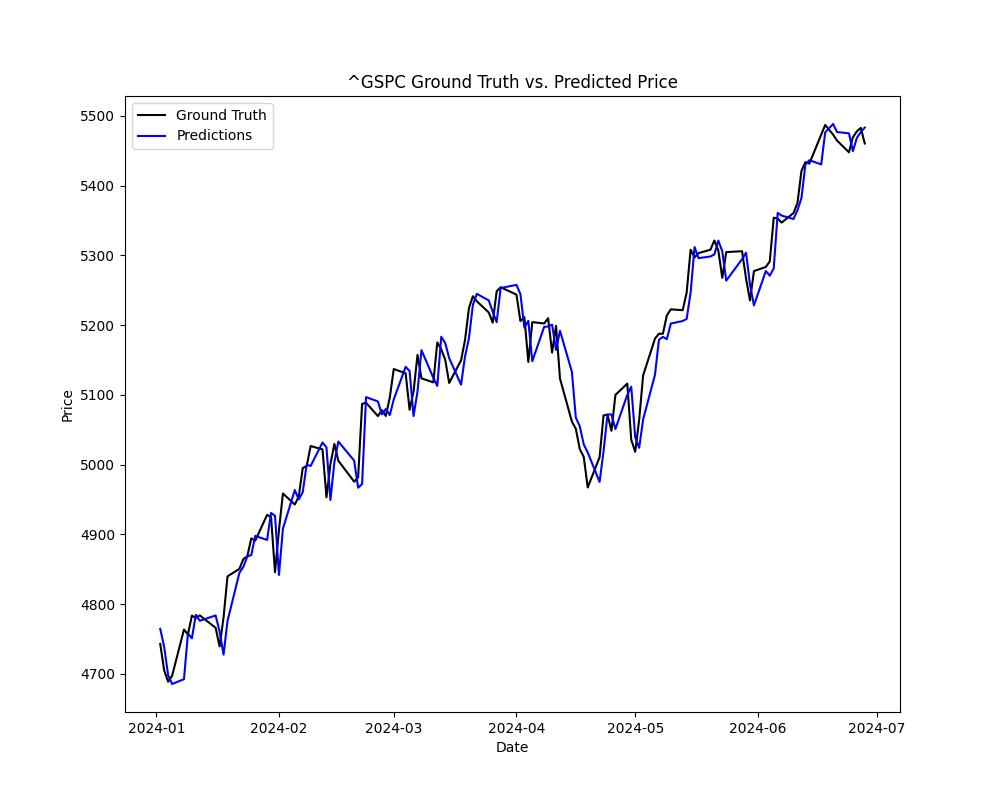
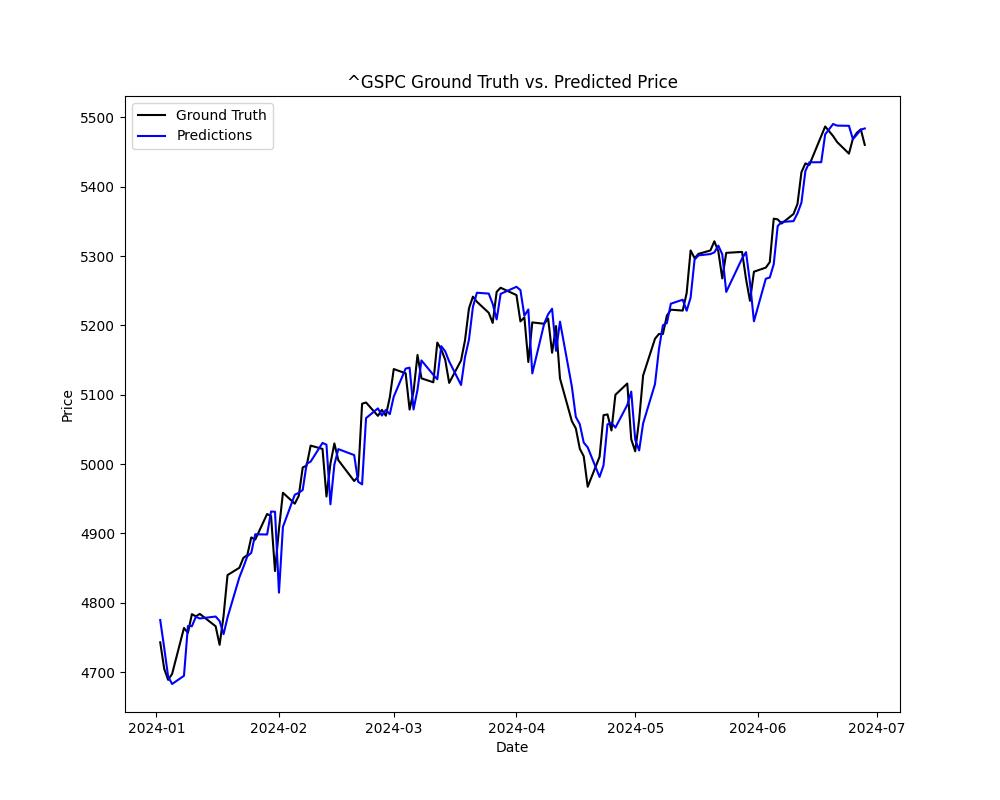
try price change, with similar results as before

diff --git a/evaluation.py b/evaluation.py
@@ -10,7 +10,7 @@ import matplotlib.pyplot as plt
 import argparse
 
 
-def reg_model_eval(model_path: str, model_arch: str, ticker: str, time_interval: str, 
+def reg_model_eval(model_path: str, model_arch: str, ticker: str, time_interval: str,
                    label: str, error: str, start_date: date, end_date: date = None):
     """
     Evaluate a regression model's predictions for the given ticker's price over some time period.
@@ -22,7 +22,7 @@ def reg_model_eval(model_path: str, model_arch: str, ticker: str, time_interval:
         time_interval (str): String with the time interval of the model. 
             Should be "1m" or "1d".
         label (str): String with the label used for the model. 
-            Should be "price".
+            Should be "price" or "price-change".
         error (str): String with the error (loss) function used by the model.
         start_date (datetime.date): Date for the first date of the time window for the evaluation.
             If time_interval is "1m", then this defines the day to get the 1-minute chart for.
@@ -53,15 +53,20 @@ def reg_model_eval(model_path: str, model_arch: str, ticker: str, time_interval:
         time_col = data['Minute'][WINDOW_LENGTH:]
 
     # Prepare test data and scalers to plot the real values
-    X, y_gt, scaler_mins, scaler_scales = prepare_model_data(data, label, 'Close')
+    X, y_gt, scaler_mins, scaler_scales = prepare_model_data(
+        data, label, 'Close')
 
     # Predict
     model = load_model(model_path)
     y_predictions = model.predict(X).reshape(len(y_gt))
 
     # Scale the ground truth and predictions back to their original scales
-    y_gt = y_gt / scaler_scales + scaler_mins
-    y_predictions = y_predictions / scaler_scales + scaler_mins
+    if label == 'price':
+        y_gt = y_gt / scaler_scales + scaler_mins
+        y_predictions = y_predictions / scaler_scales + scaler_mins
+    elif label == 'price-change':
+        y_gt = y_gt / scaler_scales
+        y_predictions = y_predictions / scaler_scales
 
     # Calculate various metrics.
     # MAE
@@ -77,6 +82,8 @@ def reg_model_eval(model_path: str, model_arch: str, ticker: str, time_interval:
         X_prices = data['Close'].iloc[WINDOW_LENGTH-1:-1]
         correct_incorrect = np.sign(
             (y_gt - X_prices) * (y_predictions - X_prices))
+    elif label == 'price-change':
+        correct_incorrect = np.sign(y_gt * y_predictions)
 
     percent_correct = len(
         [sign for sign in correct_incorrect if sign == 1]) / len(y_gt)
@@ -84,8 +91,12 @@ def reg_model_eval(model_path: str, model_arch: str, ticker: str, time_interval:
 
     # Plot the ground truth vs. predictions.
     fig = plt.figure(figsize=(10, 8))
-    plt.plot(time_col, y_gt, "k", label="Ground Truth")
-    plt.plot(time_col, y_predictions, "b", label="Predictions")
+    if label == 'price':
+        plt.plot(time_col, y_gt, "k", label="Ground Truth")
+        plt.plot(time_col, y_predictions, "b", label="Predictions")
+    elif label == 'price-change':
+        plt.scatter(time_col, y_gt, c="k", label="Ground Truth")
+        plt.scatter(time_col, y_predictions, c="b", label="Predictions")
     plt.legend()
 
     x_mapper = {
@@ -94,7 +105,7 @@ def reg_model_eval(model_path: str, model_arch: str, ticker: str, time_interval:
     plt.xlabel(x_mapper[time_interval])
 
     y_mapper = {
-        'price': "Price", 'percent-change': "Return (%)"
+        'price': "Price", 'price-change': "Price Change"
     }
     plt.ylabel(y_mapper[label])
 
@@ -124,7 +135,7 @@ if __name__ == '__main__':
     parser.add_argument('-t', '--time_interval', type=str, help='time interval data to train on',
                         choices=['1m', '1d'], required=True)
     parser.add_argument('-l', '--label', type=str, help='labels to use for each instance',
-                        choices=['price'], required=True)
+                        choices=['price', 'price-change'], required=True)
     parser.add_argument('-e', '--error', type=str,
                         help='error (loss) function to use', required=True)
     args = parser.parse_args()
@@ -141,5 +152,5 @@ if __name__ == '__main__':
         elif args.time_interval == '1m':
             start, end = date(2024, 7, 26), None
 
-        reg_model_eval(model_path, args.model, args.ticker, args.time_interval, 
+        reg_model_eval(model_path, args.model, args.ticker, args.time_interval,
                        args.label, args.error, start, end)

diff --git a/common.py b/common.py
@@ -7,7 +7,6 @@ from sklearn.preprocessing import MinMaxScaler
 # Tickers to use for building datasets and training.
 tickers = ['AAPL', 'MSFT', 'NVDA', 'AMZN',
            '^GSPC', '^DJI', '^RUT', 'CL=F', 'GC=F']
-# tickers = ['^GSPC']
 
 # Number of time points to use in defining sequence data.
 WINDOW_LENGTH = 30
@@ -25,7 +24,7 @@ def prepare_model_data(data: pd.DataFrame, label: str, col: str):
         data (pandas.DataFrame): Pandas DataFrame containing the raw CSV data.
         label (str): String indicating what value to use as the labels:
             "price": Use the price of the given column.
-            "percent-change": Use the percent change in values of the given column.
+            "price-change": Use the change in values of the given column.
         col (str): Column name to use in creating the labels.
 
     Returns:
@@ -39,6 +38,8 @@ def prepare_model_data(data: pd.DataFrame, label: str, col: str):
     # Define the label function based on the label
     if label == 'price':
         def labeller(i): return data.iloc[i][col]
+    elif label == 'price-change':
+        def labeller(i): return data.iloc[i][col] - data.iloc[i-1][col]
 
     # Init return instances, labels, and scaler values
     scaler = MinMaxScaler()
@@ -48,12 +49,15 @@ def prepare_model_data(data: pd.DataFrame, label: str, col: str):
     for i in range(len(data) - WINDOW_LENGTH):
         sequence = local_data.iloc[i:i+WINDOW_LENGTH]
         sequence = scaler.fit_transform(sequence)
-        gt_label = labeller(i+WINDOW_LENGTH)
         X.append(sequence)
+        gt_label = labeller(i+WINDOW_LENGTH)
         # Get the scaler values needed to scale/revert
         col_index = np.where(scaler.get_feature_names_out() == col)[0][0]
         mi, scale = scaler.data_min_[col_index], scaler.scale_[col_index]
-        y.append((gt_label - mi) * scale)
+        if label == 'price':
+            y.append((gt_label - mi) * scale)
+        elif label == 'price-change':
+            y.append(gt_label * scale)
         scaler_mins.append(mi)
         scaler_scales.append(scale)
 

diff --git a/train.py b/train.py
@@ -22,6 +22,7 @@ def prepare_training_data(time_interval: str, label: str):
             "1d": Use the "daily_market_data" data. Sequences span any gaps days.
         label (str): String indicating what value to use as the labels:
             "price": Use the price of the given column.
+            "price-change": Use the change in values of the given column.
 
     Returns:
         numpy.array, numpy.array: Two numpy arrays X and y containing the training instances and ground
@@ -135,7 +136,7 @@ if __name__ == '__main__':
     parser.add_argument('-t', '--time_interval', type=str, help='time interval data to train on',
                         choices=['1m', '1d'], required=True)
     parser.add_argument('-l', '--label', type=str, help='labels to use for each instance',
-                        choices=['price'], required=True)
+                        choices=['price', 'price-change'], required=True)
     parser.add_argument('-e', '--error', type=str,
                         help='error (loss) function to use', required=True)
     args = parser.parse_args()

diff --git a/README.md b/README.md
@@ -16,3 +16,4 @@ First working model: regression
 Second working model: regression (just price), Transformers
 - Transformer + LSTM pooling, and normalizing each input sequence separately.
 - Now the behavior is much closer to expected (very sensitive to the previous day's prices).
+- Even when trying a price chagne label, these predictions are very close to 0.
